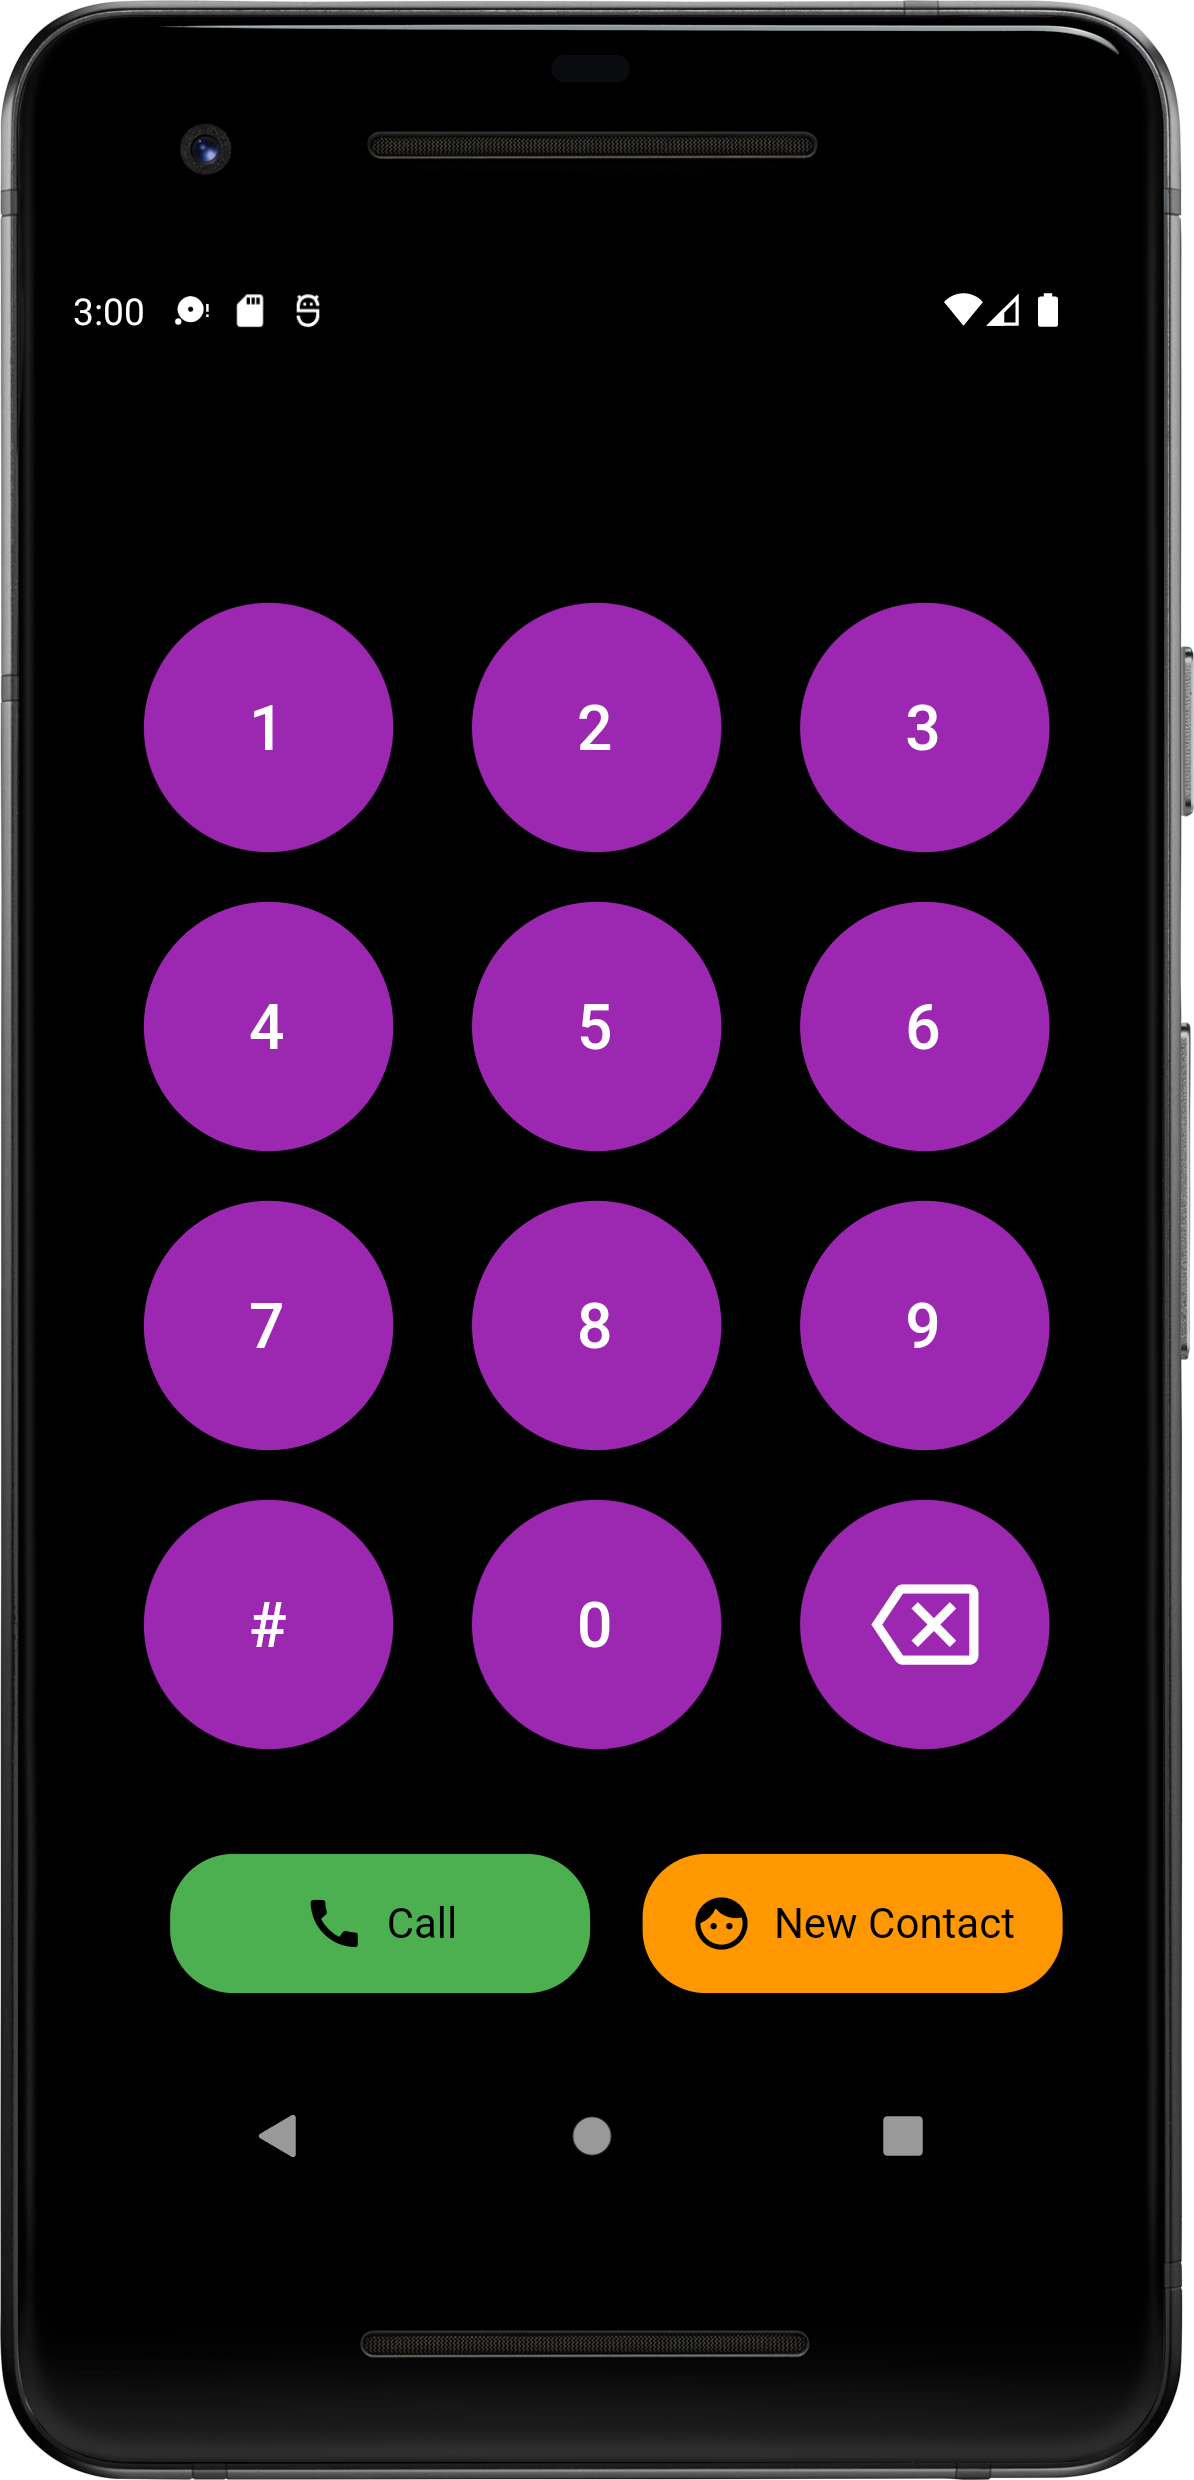
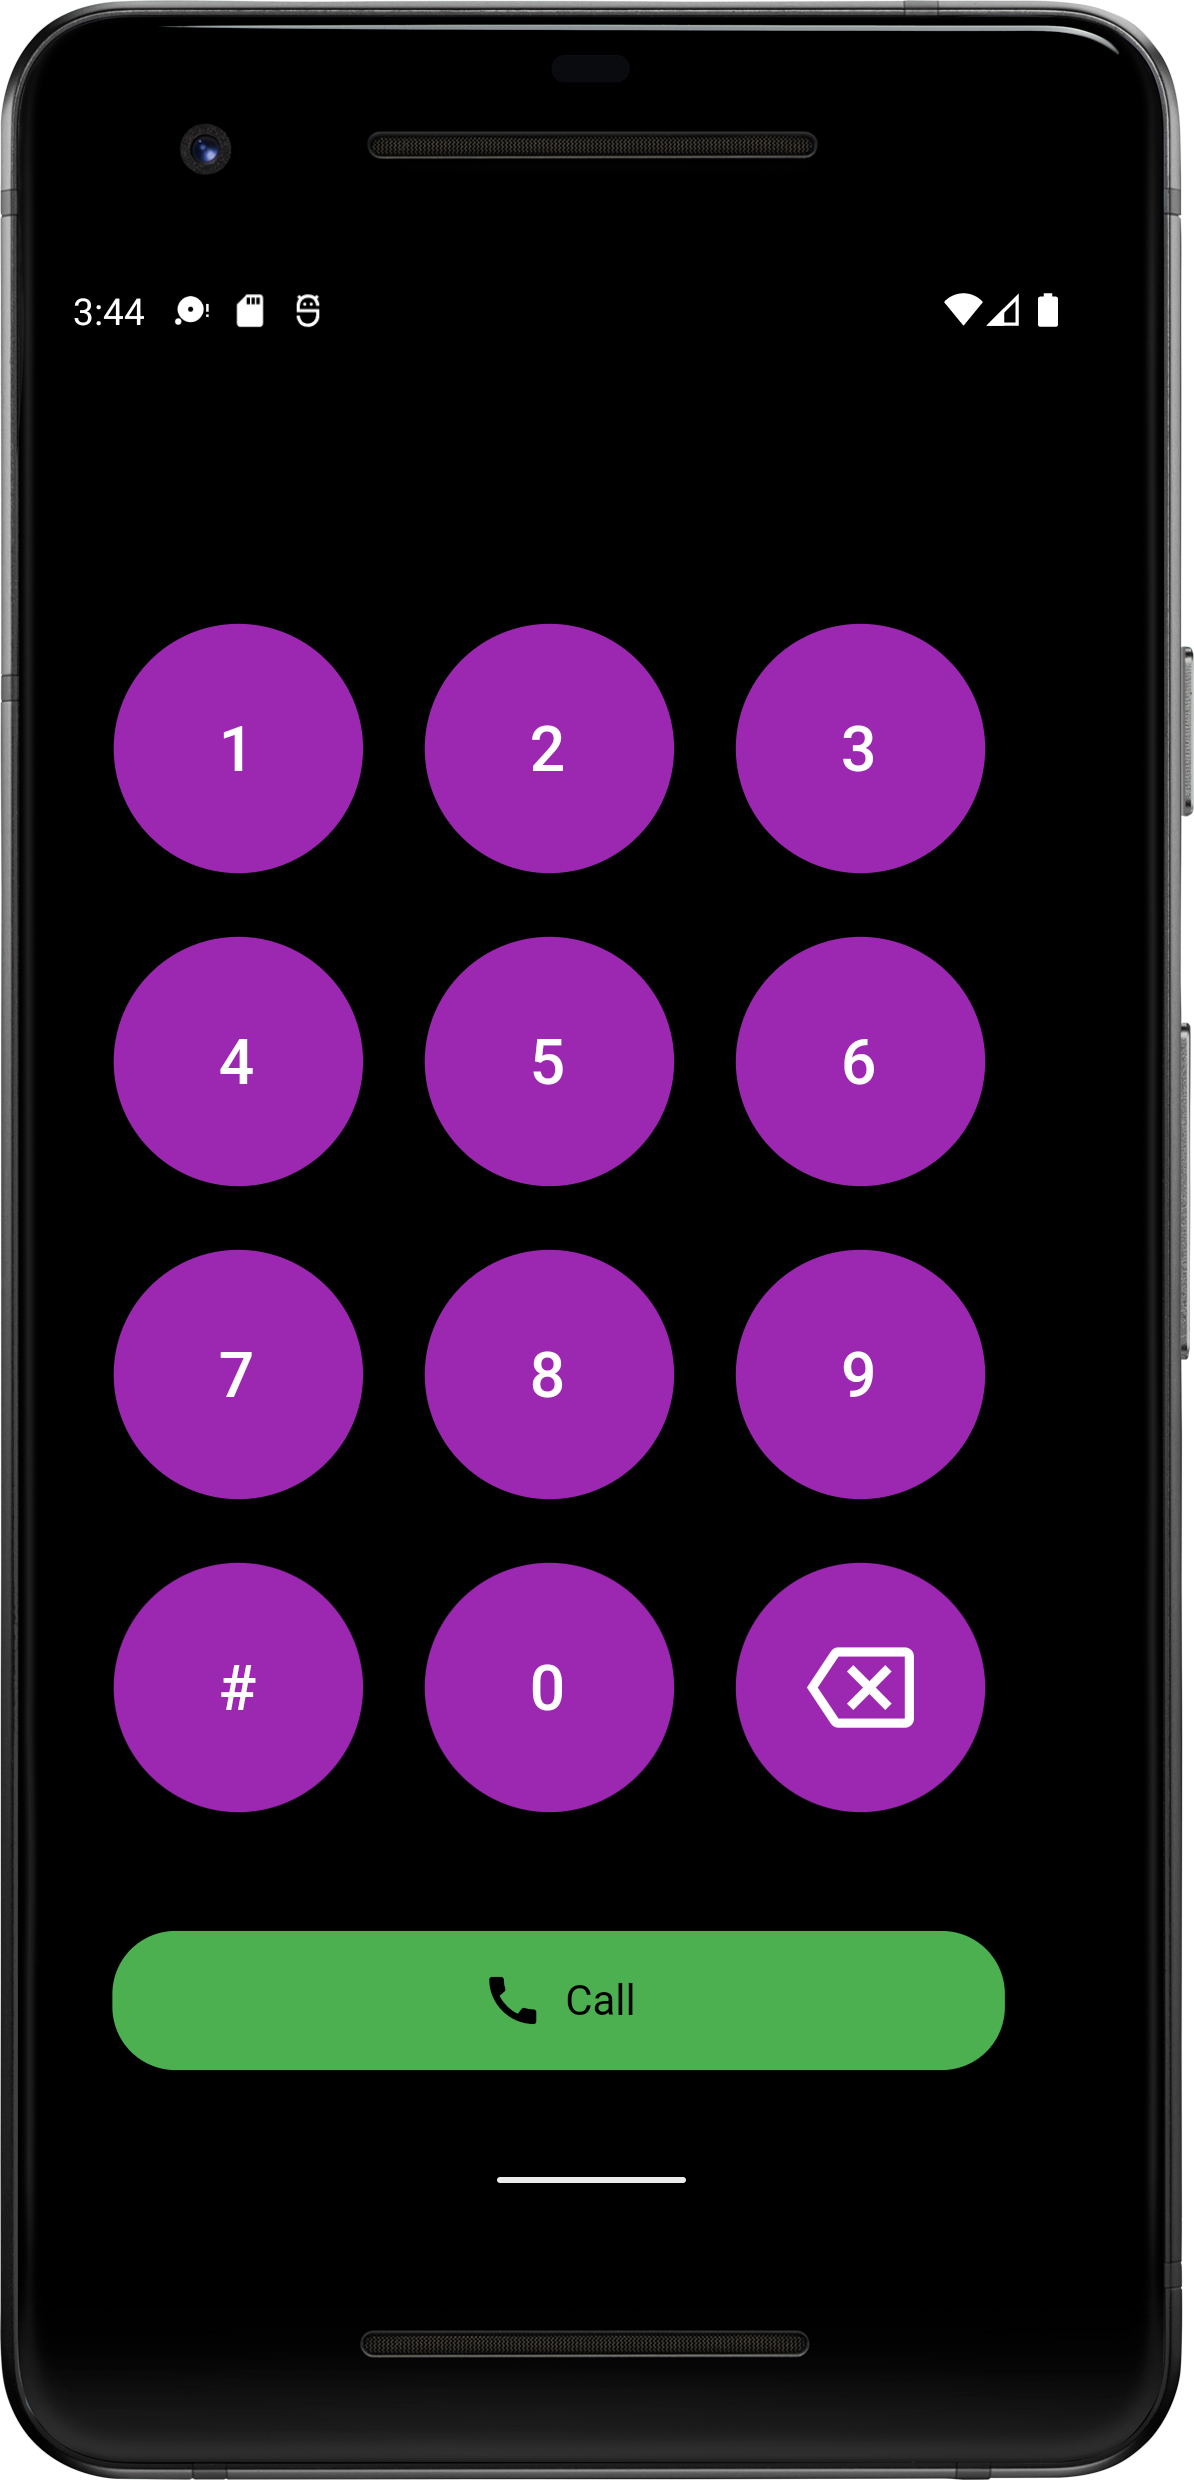
Bump version to v3.0
- Refresh home screen, dialer screen and contacts screen
- New Create Contact screen with user inputs
- Bug fixes

Changed region(s): [[0.093, 0.2173, 0.8987, 0.8694], [0.093, 0.1242, 0.124, 0.1552]]

diff --git a/lib/Contacts.dart b/lib/Contacts.dart
@@ -9,10 +9,98 @@ import 'dart:convert';
 import 'dart:io';
 import 'Dialer.dart';
 import 'package:path_provider/path_provider.dart';
+import 'ManageMap.dart';
 
 class Contacts extends StatefulWidget{
    @override
    _ContactState createState() => _ContactState();
+}
+
+class CreateContact extends StatefulWidget {
+  @override
+  _CreateContactState createState() => _CreateContactState();
+}
+
+class _CreateContactState extends State<CreateContact>{
+
+  final phone = TextEditingController();
+  final contact = TextEditingController();
+  var mapa = ManageMap();
+
+  @override
+  void initState(){
+    mapa.readJson();
+    super.initState();
+  }
+
+  @override
+  void dispose() {
+    // Clean up the controller when the widget is disposed.
+    phone.dispose();
+    contact.dispose();
+    super.dispose();
+  }
+
+  @override
+  Widget build(BuildContext context){
+    return Scaffold(
+      backgroundColor: Colors.greenAccent,
+      appBar: AppBar(
+        backgroundColor: Colors.green,
+        title: const Text("Create Contact"),
+      ),
+    body: Container(
+      child: Column(
+          children: <Widget>[
+            Text("\n"),
+            TextFormField(
+              controller: phone,
+              keyboardType: TextInputType.number,
+              decoration: const InputDecoration(
+              border: OutlineInputBorder(),
+              labelText: 'Phone',
+          ),
+        ),
+            Text("\n"),
+
+        TextFormField(
+          controller: contact,
+          decoration: const InputDecoration(
+          border: OutlineInputBorder(),
+          labelText: 'Name',
+          ),
+      ),
+
+            Text("\n\n\n"),
+
+            TextButton.icon(
+              label: const Text(
+                "Save Contact",
+                style: TextStyle(
+                    fontSize: 16,
+                    color: Colors.black),
+              ),
+              style: TextButton.styleFrom(
+                textStyle: TextStyle(color: Colors.black),
+                backgroundColor: Colors.green,
+                shape:RoundedRectangleBorder(
+                  borderRadius: BorderRadius.circular(24.0),
+                ),
+              ),
+              onPressed: () {
+                Navigator.push(
+                  context,
+                  MaterialPageRoute(builder: (context) => Dialer()),
+                );
+                setState(() {
+                  mapa.writeJson(phone.text, contact.text );
+                });
+              },
+              icon: Icon(Icons.face_rounded, color: Colors.black,),
+            )
+  ]
+    )));
+  }
 }
 
 
@@ -135,22 +223,6 @@ class _ContactState extends State<Contacts>{
 
 
     return Scaffold(
-      floatingActionButton: FloatingActionButton(
-          onPressed: () async {
-            Contact? contact = await contactPicker.selectContact();
-            if (contact !=null){
-              number = contact.phoneNumbers![0];
-              name = contact.fullName.toString();
-              setState(() {
-                mapa[number] = name;
-                contactos = addContactsToList(mapa, contactos, telefonos);
-                telefonos = addPhonesToList(mapa, contactos, telefonos);
-                _writeJson(number, name);
-              });
-            }
-          },
-          child: const Icon(Icons.add),
-      ),
       backgroundColor: Colors.black,
       appBar: AppBar(
         backgroundColor: Colors.black,
@@ -183,6 +255,74 @@ class _ContactState extends State<Contacts>{
           );
         },
       ),
-      );
+
+    bottomNavigationBar:  Container(
+        child: Container(
+            width: MediaQuery
+                .of(context)
+                .size
+                .width,
+            height: MediaQuery
+                .of(context)
+                .size
+                .height / 6,
+            color: Colors.black,
+            child: Row(
+                mainAxisSize: MainAxisSize.min,
+                children: <Widget>[
+                  const SizedBox(width: 35,),
+                  TextButton.icon(
+                    label: const Text(
+                      "Create Contact",
+                      style: TextStyle(
+                          fontSize: 16,
+                          color: Colors.black),
+                    ),
+                    style: TextButton.styleFrom(
+                      textStyle: TextStyle(color: Colors.black),
+                      backgroundColor: Colors.green,
+                      shape:RoundedRectangleBorder(
+                        borderRadius: BorderRadius.circular(24.0),
+                      ),
+                    ),
+                    onPressed: () {
+                      Navigator.push(
+                        context,
+                        MaterialPageRoute(builder: (context) => CreateContact()),
+                      );
+                    },
+                    icon: Icon(Icons.face_rounded, color: Colors.black,),
+                  ), const SizedBox(width: 23,),
+                  TextButton.icon(
+                    label: const Text(
+                      "Pick a Contact",
+                      style: TextStyle(
+                          fontSize: 16,
+                          color: Colors.black),
+                    ),
+                    style: TextButton.styleFrom(
+                      textStyle: TextStyle(color: Colors.black),
+                      backgroundColor: Colors.orange,
+                      shape:RoundedRectangleBorder(
+                        borderRadius: BorderRadius.circular(24.0),
+                      ),
+                    ),
+                    onPressed: () async {
+                      Contact? contact = await contactPicker.selectContact();
+                      if (contact !=null){
+                        number = contact.phoneNumbers![0];
+                        name = contact.fullName.toString();
+                        setState(() {
+                          mapa[number] = name;
+                          contactos = addContactsToList(mapa, contactos, telefonos);
+                          telefonos = addPhonesToList(mapa, contactos, telefonos);
+                          _writeJson(number, name);
+                        });
+                      }
+                    },
+                    icon: Icon(Icons.face_rounded, color: Colors.black,),
+                  ),
+                ]))
+    ),);
   }
 }

diff --git a/lib/Dialer.dart b/lib/Dialer.dart
@@ -8,7 +8,6 @@ import 'Settings.dart';
 import 'Contacts.dart';
 import 'package:path_provider/path_provider.dart';
 
-
 class Dialer extends StatefulWidget{
   @override
   _DialerState createState() => _DialerState();
@@ -99,25 +98,20 @@ class _DialerState extends State<Dialer>{
               ),
             ),
             BottomNavigationBarItem(
+              label: '',
+              icon : IconButton(
+                icon: Icon(Icons.contact_page), color: colors[mode_counter],
+                onPressed: () {null;}
+              ),
+            ),
+            BottomNavigationBarItem(
               label: 'Contacts',
               icon : IconButton(
-                icon: Icon(Icons.contact_page),
+                icon: Icon(Icons.face_rounded),
                 onPressed: () {
                   Navigator.push(
                     context,
                     MaterialPageRoute(builder: (context) => Contacts()),
-                  );
-                },
-              ),
-            ),
-            BottomNavigationBarItem(
-              label: 'Messages',
-              icon : IconButton(
-                icon: Icon(Icons.chat),
-                onPressed: () {
-                  Navigator.push(
-                    context,
-                    MaterialPageRoute(builder: (context) => Settings()),
                   );
                 },
               ),
@@ -509,7 +503,7 @@ class _DialPadNumberState extends State<DialPadNumbers>{
             ),
             style: TextButton.styleFrom(
               textStyle: TextStyle(color: Colors.black),
-              backgroundColor: Colors.green,fixedSize: const Size(160, 53),
+              backgroundColor: Colors.green,fixedSize: const Size(340, 53),
               shape:RoundedRectangleBorder(
                 borderRadius: BorderRadius.circular(24.0),
               ),
@@ -519,29 +513,8 @@ class _DialPadNumberState extends State<DialPadNumbers>{
             number = "";
             })},
             icon: Icon(Icons.call, color: Colors.black,),
-          ), const SizedBox(width: 23,),
-          TextButton.icon(
-            label: const Text(
-              "New Contact",
-              style: TextStyle(
-                  fontSize: 16,
-                  color: Colors.black),
-            ),
-            style: TextButton.styleFrom(
-              textStyle: TextStyle(color: Colors.black),
-              backgroundColor: Colors.orange,fixedSize: const Size(160, 53),
-              shape:RoundedRectangleBorder(
-                borderRadius: BorderRadius.circular(24.0),
-              ),
-            ),
-            onPressed: () => {
-              setState(() {
-            _readJson();
-            saveContact(number);
-              }),
-            },
-            icon: Icon(Icons.face_rounded, color: Colors.black,),
-          ),
+          ), const SizedBox(width: 46,),
+
     ]))]);
   }
 }

diff --git a/lib/ManageMap.dart b/lib/ManageMap.dart
@@ -1,0 +1,53 @@
+import 'package:flutter/services.dart';
+import 'package:path_provider/path_provider.dart';
+import 'package:url_launcher/url_launcher.dart';
+import 'package:flutter/cupertino.dart';
+import 'package:flutter/material.dart';
+import 'dart:convert';
+import 'dart:io';
+
+class ManageMap {
+bool _fileExists = false;
+late File _filePath;
+
+// First initialization of _json (if there is no json in the file)
+Map<dynamic, dynamic> mapa = {};
+late String _jsonString;
+String data = "";
+
+// Get app local path for App data
+Future<String> get _localPath async {
+final directory = await getApplicationDocumentsDirectory();
+return directory.path;
+}
+
+// Get file object with full path
+Future<File> get _localFile async {
+final path = await _localPath;
+return File('$path/contacts.json');
+}
+
+// Write latest key and value to json
+void writeJson(String key, dynamic value) async {
+final filePath = await _localFile;
+Map<String, dynamic> _newJson = {key: value};
+mapa.addAll(_newJson);
+_jsonString = jsonEncode(mapa);
+filePath.writeAsString(_jsonString);
+}
+
+// Read json and update the lists on runtime
+void readJson() async {
+_filePath = await _localFile;
+_fileExists = await _filePath.exists();
+
+if (_fileExists) {
+try {
+_jsonString = await _filePath.readAsString();
+mapa = jsonDecode(_jsonString);
+} catch (e) {
+
+}
+}
+}
+}

diff --git a/README.md b/README.md
@@ -18,9 +18,9 @@ dependencies :
 ```
 
  # Screens
-| Home Screen             | Call Screen                | Contacts Screen            |
-| :---------------------- |:----------------------     |:----------------------|
-| <img src="screens/screen_1.png">                        | <img src="screens/screen_3.png">                           | <img src="screens/screen_2.png">|
+| Home Screen             | Call Screen                | Contacts Screen            | New Contacts Screen |
+| :---------------------- |:----------------------     |:----------------------|:----------------------|
+| <img src="screens/screen_1.png">                        | <img src="screens/screen_3.png">                           | <img src="screens/screen_2.png">|<img src="screens/screen_4.png">|
 
  # Get the source
  ```
